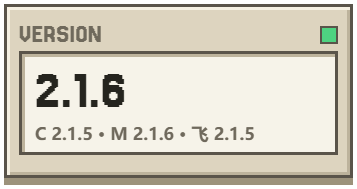
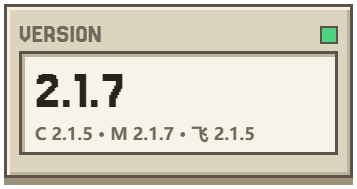
build(发行): Magpie 2.1.7（NearToken 让出供应商 + 探针图钉图标）
只升 Magpie，Clash / 飞书 保持 2.1.5。catalog 回填 magpie 真实摘要（33,307,148 B / sha256 81d9308d…），README 版本卡与发行说明对齐 2.1.7，2.1.6 那条「图标已接线」补一条更正。

Changed region(s): [[0.2773, 0.3704, 0.3697, 0.582], [0.4622, 0.6614, 0.493, 0.7407]]

diff --git a/README.md b/README.md
@@ -12,18 +12,18 @@
 </picture>
 
 <p>
-  <a href="https://github.com/Fish-under-sea/FISH-DOCK-Plugins/releases/tag/v2.1.6"><picture><source media="(prefers-color-scheme: dark)" srcset="assets/readme/config-stat-version-zh-dark.png"><img src="assets/readme/config-stat-version-zh-light.png" alt="VERSION：三插件 2.1.4" width="23%"></picture></a>
+  <a href="https://github.com/Fish-under-sea/FISH-DOCK-Plugins/releases/tag/v2.1.7"><picture><source media="(prefers-color-scheme: dark)" srcset="assets/readme/config-stat-version-zh-dark.png"><img src="assets/readme/config-stat-version-zh-light.png" alt="VERSION：Clash 2.1.5 · Magpie 2.1.7 · 飞书 2.1.5" width="23%"></picture></a>
   <a href="#plugins"><picture><source media="(prefers-color-scheme: dark)" srcset="assets/readme/config-stat-desktop-zh-dark.png"><img src="assets/readme/config-stat-desktop-zh-light.png" alt="PLUGINS：三个独立插件" width="23%"></picture></a>
   <a href="#packages"><picture><source media="(prefers-color-scheme: dark)" srcset="assets/readme/config-stat-mail-zh-dark.png"><img src="assets/readme/config-stat-mail-zh-light.png" alt="PACKAGES：三个 npm 单包" width="23%"></picture></a>
   <a href="https://github.com/Fish-under-sea/FISH-Dock"><picture><source media="(prefers-color-scheme: dark)" srcset="assets/readme/config-stat-channels-zh-dark.png"><img src="assets/readme/config-stat-channels-zh-light.png" alt="HOST API：1，兼容 FISH Dock 2.0.0+" width="23%"></picture></a>
 </p>
 
-<p><img src="https://img.shields.io/badge/Node.js-24.14%2B-8fd6a0?style=flat-square&amp;logo=nodedotjs&amp;logoColor=white&amp;labelColor=5a544a" alt="Node.js 24.14+"> <img src="https://img.shields.io/badge/Adapter%20License-MIT-8fd6a0?style=flat-square&amp;labelColor=5a544a" alt="插件适配代码许可 MIT"> <img src="https://img.shields.io/badge/mihomo-GPL--3.0-f08a5d?style=flat-square&amp;labelColor=5a544a" alt="随包 mihomo 许可 GPL-3.0"> <img src="https://img.shields.io/badge/Plugins-2.1.6-8fd6a0?style=flat-square&amp;labelColor=5a544a" alt="三插件 2.1.4"></p>
+<p><img src="https://img.shields.io/badge/Node.js-24.14%2B-8fd6a0?style=flat-square&amp;logo=nodedotjs&amp;logoColor=white&amp;labelColor=5a544a" alt="Node.js 24.14+"> <img src="https://img.shields.io/badge/Adapter%20License-MIT-8fd6a0?style=flat-square&amp;labelColor=5a544a" alt="插件适配代码许可 MIT"> <img src="https://img.shields.io/badge/mihomo-GPL--3.0-f08a5d?style=flat-square&amp;labelColor=5a544a" alt="随包 mihomo 许可 GPL-3.0"> <img src="https://img.shields.io/badge/Plugins-2.1.7-8fd6a0?style=flat-square&amp;labelColor=5a544a" alt="Clash 2.1.5 · Magpie 2.1.7 · 飞书 2.1.5"></p>
 <p><strong>FISH Plugins &amp; Configuration · 插件配置仓</strong><br>官方插件、配置说明与发行入口；按需安装，独立运行。</p>
 
 <p>
   <a href="#get-started"><picture><source media="(prefers-color-scheme: dark)" srcset="assets/readme/key-download-zh-dark.png"><img src="assets/readme/key-download-zh-light.png" alt="下载 / Releases" height="40"></picture></a>
-  <a href="https://github.com/Fish-under-sea/FISH-DOCK-Plugins/releases/tag/v2.1.6"><picture><source media="(prefers-color-scheme: dark)" srcset="assets/readme/key-release-zh-dark.png"><img src="assets/readme/key-release-zh-light.png" alt="更新记录" height="40"></picture></a>
+  <a href="https://github.com/Fish-under-sea/FISH-DOCK-Plugins/releases/tag/v2.1.7"><picture><source media="(prefers-color-scheme: dark)" srcset="assets/readme/key-release-zh-dark.png"><img src="assets/readme/key-release-zh-light.png" alt="更新记录" height="40"></picture></a>
   <a href="https://github.com/Fish-under-sea/FISH-DOCK-Plugins/issues"><picture><source media="(prefers-color-scheme: dark)" srcset="assets/readme/key-issues-zh-dark.png"><img src="assets/readme/key-issues-zh-light.png" alt="反馈 / Issues" height="40"></picture></a>
 </p>
 
@@ -35,23 +35,33 @@
 
 每个插件独立保存配置与凭据，按需启动，不共享业务密钥。插件仓只发布插件资源，桌面安装包请前往 [FISH-Dock](https://github.com/Fish-under-sea/FISH-Dock)。
 
-本版**只升 Magpie：2.1.5 → 2.1.6**（Clash / 飞书 保持 2.1.5）。Magpie 这版三件事：接入 NearToken 页面插件的八条宿主调用（`neartoken:*`）；插件页超链接改由宿主用系统浏览器打开（沙箱帧里 `<a href>` 打不开）；内置「中转站探针」图标与界面重做，并补操作教程。要求 **FISH Dock ≥ 2.0.0**。完整改动见 [2.1.6 发行说明](docs/releases/2.1.4.md)。
+本版**只升 Magpie：2.1.6 → 2.1.7**（Clash / 飞书 保持 2.1.5）。这版做两件事：NearToken 的 provider 插件从 0.1.7 起自带模型表、图标与余额，宿主侧那条 key+URL 供应商**让出去**（[#22](https://github.com/Fish-under-sea/FISH-Dock-Plugins/issues/22)）；内置「中转站探针」补上 📌 图钉图标，深浅两套配色。要求 **FISH Dock ≥ 2.0.0**。完整改动见 [2.1.7 发行说明](docs/releases/2.1.7.md)。
 
-**2.1.6 改了什么（仅 Magpie）**
+**2.1.7 改了什么（仅 Magpie）**
 
-- **Clash：七项 UX 修复 + 订阅运行中热切换**：胶囊按钮不再被长文案压成竖排圆块（禁用原因拆成按钮下方小字）；详情卡「复制」按钮移除、左右两卡行高基线对齐；**点订阅卡 = 高亮 + 切换启用**（同时只允许一条启用，卡内开关与卡片高亮双向联动）；内核运行中切换订阅**热重载配置，不停内核**（失败自动回滚启用集与配置文件）；下拉弹层内滚轮不再误关闭；两个下拉箭头换成内联 SVG 垂直居中；读数行数值不再被裁。注意一条行为变化：**没有缓存的订阅现在直接拒绝启用**（此前是「启用成功、下次启动内核才失败」），避免内核带着空 provider 起来。
-- **Clash 两个下拉触发器首列对齐（2.1.5 补发）**：`justify-content:flex-start` + 图标盒恒在 + 右侧那组贴右（有延迟由延迟吃 `auto`，没有则由箭头吃），两个触发器的文字相对左边缘偏移实测 37px = 37px；顺带修掉「无 emoji 时首列少 24px」。
-- **以下为 2.1.4 首次引入、2.1.5 一并包含**：
-- **飞书页面按 2.1.4 设计语言重构**：单栏与双栏两套布局分别设计（不是一套挤成两列，720px 以下自动降单栏）；token 化自持深浅主题；布局切换器、卡片、按钮语义、状态 banner 与无障碍全部对齐 Clash 同款刻度。
-- **Magpie：exe 基线仍 `v0.1.2732`，补丁推进到 `+fish.10`**，随包 exe 与 2.1.3 **不再逐字节相同**（74,019,840 → 79,512,064 B）。上游带来的用户可感知变化见[发行说明](docs/releases/2.1.4.md)；我们自己的改动：**新增内置 Meoo 秒悟（建站 Agent）**、**OpenCode Zen Free 移出预装**（已装用户不受影响，美化素材保留）、**#18 五项落地**——讯飞不再显示假 400（读不到真实积分就「未告知」）、签到数据带「截至时间/来源」、不支持采集的显示标记、首启「正在准备 N 个供应商插件」可用、首启图标不再抖动；`preinstall-state.json` 首启落盘接上线。
-- **包与版本**：Clash 与飞书 2.1.5、**Magpie 2.1.6**；`magpie.exe` 版本资源 `0.1.2732.10`（ProductName `magpie fish`）；`page-checkin` 保持 0.2.6，`page-relay-probe` 升到 0.1.1。
+- **NearToken 不再被宿主那条供应商盖住（#22）**：`@fish-under-sea/magpie-neartoken` 0.1.7 起自己就是 provider 插件（设备授权、按「分组 × 模型」展开的模型表、倍率、生图/视频标记、图标、余额都由它给），宿主侧那条 key+URL 供应商撞在同一个 id 上，于是模型表是旧的、卡片是灰立方体、「重新获取模型」还去问站点 `/v1/models`（那个端点按令牌分组过滤，很多账号回空）。本版插件在场时**宿主让出供应商**：不再 `provider.Save`、不再写模型表，页面那八条 `neartoken:*` 改从插件凭据里读令牌；老用户升级时把旧钥匙搬进插件 auth 再删掉那条（搬不动就留着，钥匙不丢）；断开时撤令牌 + 删插件凭据 + 删宿主侧那条，一样不留；插件不在场时保持老做法。
+- **中转站探针的图标**：2.1.6 换了矢量图标，但 `magpie.page.icon` 没落到 `package.json` 上，侧边栏里还是 magpie 的兜底灰方块。本版换成**图钉（📌）**描边图标，`magpie.page.icon` 与 `magpie.icon` 同指 `page/icon.svg`；深浅两套颜色写在 SVG 里（`@media (prefers-color-scheme: dark)` 切 `#111111` / `#F2F2F7`），因为 `<img>` 里 `currentColor` 没有父级可继承、恒等于黑。包里那张 109 KB 灰色位图已删。
+- **包与版本**：Clash 与飞书 2.1.5、**Magpie 2.1.7**；`magpie.exe` 版本资源 `0.1.2732.11`（ProductName `magpie fish`）；`page-checkin` 保持 0.2.6，`page-relay-probe` 升到 0.1.2。
 
 > ℹ **2.1.3 的已知限制已在 2.1.4 修复**：讯飞今日积分显示 400 的问题（读取侧补偿）随 #18 的 B1 移除，读不到真实积分时显示「未告知」。
 
 <details>
-<summary><b>2.1.2 / 2.1.0 改了什么</b></summary>
+<summary><b>2.1.6 / 2.1.5 / 2.1.2 / 2.1.0 改了什么</b></summary>
 
 <br>
+
+**2.1.6 改了什么（仅 Magpie）**
+
+- 接入 NearToken 页面插件的八条宿主调用（`neartoken:*`）。
+- 插件页超链接改由宿主用系统浏览器打开（沙箱帧里 `<a href>` 打不开）。
+- 内置「中转站探针」界面重做并补操作教程（`page-relay-probe` 0.1.1）；exe 补丁推进到 `+fish.10`。
+
+**2.1.5 改了什么**
+
+- **Clash：七项 UX 修复 + 订阅运行中热切换**：胶囊按钮不再被长文案压成竖排圆块（禁用原因拆成按钮下方小字）；详情卡「复制」按钮移除、左右两卡行高基线对齐；**点订阅卡 = 高亮 + 切换启用**（同时只允许一条启用，卡内开关与卡片高亮双向联动）；内核运行中切换订阅**热重载配置，不停内核**（失败自动回滚启用集与配置文件）；下拉弹层内滚轮不再误关闭；两个下拉箭头换成内联 SVG 垂直居中；读数行数值不再被裁。注意一条行为变化：**没有缓存的订阅现在直接拒绝启用**（此前是「启用成功、下次启动内核才失败」），避免内核带着空 provider 起来。
+- **Clash 两个下拉触发器首列对齐（2.1.5 补发）**：`justify-content:flex-start` + 图标盒恒在 + 右侧那组贴右（有延迟由延迟吃 `auto`，没有则由箭头吃），两个触发器的文字相对左边缘偏移实测 37px = 37px；顺带修掉「无 emoji 时首列少 24px」。
+- **飞书页面按 2.1.4 设计语言重构**：单栏与双栏两套布局分别设计（不是一套挤成两列，720px 以下自动降单栏）；token 化自持深浅主题；布局切换器、卡片、按钮语义、状态 banner 与无障碍全部对齐 Clash 同款刻度。
+- **Magpie 2.1.4 起的改动**：exe 基线 `v0.1.2732`，新增内置 Meoo 秒悟（建站 Agent）、OpenCode Zen Free 移出预装（已装用户不受影响，美化素材保留）、#18 五项落地——讯飞不再显示假 400（读不到真实积分就「未告知」）、签到数据带「截至时间/来源」、不支持采集的显示标记、首启「正在准备 N 个供应商插件」可用、首启图标不再抖动；`preinstall-state.json` 首启落盘接上线。
 
 **2.1.2 改了什么**
 
@@ -142,7 +152,7 @@
 | --- | --- | --- |
 | 飞书 2.1.5 | [`feishu.fish-plugin`](https://github.com/Fish-under-sea/FISH-DOCK-Plugins/releases/download/v2.1.5/feishu.fish-plugin) | [`@fish-under-sea/fish-dock-plugin-feishu`](https://www.npmjs.com/package/@fish-under-sea/fish-dock-plugin-feishu) |
 | Clash 2.1.5 | [`clash.fish-plugin`](https://github.com/Fish-under-sea/FISH-DOCK-Plugins/releases/download/v2.1.5/clash.fish-plugin) | [`@fish-under-sea/fish-dock-plugin-clash`](https://www.npmjs.com/package/@fish-under-sea/fish-dock-plugin-clash/v/2.1.4) |
-| Magpie 2.1.6 | [`magpie.fish-plugin`](https://github.com/Fish-under-sea/FISH-DOCK-Plugins/releases/download/v2.1.6/magpie.fish-plugin) | [`@fish-under-sea/fish-dock-plugin-magpie`](https://www.npmjs.com/package/@fish-under-sea/fish-dock-plugin-magpie/v/2.1.4) |
+| Magpie 2.1.7 | [`magpie.fish-plugin`](https://github.com/Fish-under-sea/FISH-DOCK-Plugins/releases/download/v2.1.7/magpie.fish-plugin) | [`@fish-under-sea/fish-dock-plugin-magpie`](https://www.npmjs.com/package/@fish-under-sea/fish-dock-plugin-magpie/v/2.1.4) |
 
 <h2 id="packages"><picture><source media="(prefers-color-scheme: dark)" srcset="assets/readme/section-packages-dark.png"><img src="assets/readme/section-packages-light.png" alt="PACKAGES · npm 单包" width="100%"></picture></h2>
 

diff --git a/docs/releases/2.1.7.md b/docs/releases/2.1.7.md
@@ -1,0 +1,64 @@
+# Magpie 2.1.7
+
+> 定稿：2026-11-04。**本版只升 Magpie**（2.1.6 → 2.1.7），Clash 与飞书保持 2.1.5，OFM 保持 2.0.1。
+> 对应 issue：[#22 NearToken 0.1.7 起自带 provider 插件，宿主侧不要再建 key+URL 供应商](https://github.com/Fish-under-sea/FISH-Dock-Plugins/issues/22)；另收 2.1.6 遗留的「中转站探针图标」。
+
+## 一、版本口径
+
+| 插件 | 起始 | 目标 | 说明 |
+| --- | --- | --- | --- |
+| `fish.magpie` | 2.1.6 | **2.1.7** | 补丁 `magpie-v0.1.2732+fish.11.patch`，重编 exe |
+| `fish.clash` | 2.1.5 | 2.1.5（保持） | 本版无改动 |
+| `fish.feishu` | 2.1.5 | 2.1.5（保持） | 本版无改动 |
+
[2 lines of base64/hex data omitted]
+
+## 二、改动
+
+### 1）NearToken：宿主让出供应商（#22）
+
+**根因**：`@fish-under-sea/magpie-neartoken` 从 0.1.7 起包里多了 `index.mjs`，它同时是 magpie 的 provider 插件（`auth` 设备授权 / `provider.models` / `auth.usage` / `auth.icon`），provider id 仍是 `neartoken`；而 2.1.6 补进来的 `internal/neartoken` 还按老路子，登录成功后 `provider.Save` 一条 key+URL 供应商，两边撞在同一个 id 上。
+
+撞的后果是宿主侧那条盖住了插件那条：
+
+| 现象 | 原因 |
+| --- | --- |
+| 「重新获取模型」报 `no model list: https://neartoken.cc/v1/models: no models listed…` | 宿主侧那条没有 `ModelsURL`，magpie 去问站点 `/v1/models`；该端点按令牌分组过滤，很多账号回空 |
+| 供应商卡是灰色立方体 | 宿主侧没写 `Icon`（`Icon` 必须是 `icons/` 里的 `file:<name>`，不是外链） |
+| 模型只有七十来条、生图/视频模型不见了 | 宿主侧只写了聊天模型，没标 `Draws`/`Films` |
+| 模型名后面没有分组与倍率 | magpie 的模型表一行一个模型，宿主侧没把「分组 × 模型」折进去 |
+
+**本版做法**（issue 里的 A「让出供应商」）：
+
+- `internal/neartoken` 新增 `handoff.go`：插件在场（`plugin.Listed()` 里有 id 为 `neartoken` 的 provider）时，宿主**不再** `provider.Save` 一条 key+URL 供应商、也不再 `catalog.SaveLive` 写模型表；
+- 从页面连上的令牌交给插件自己的 auth（`plugin.Import`，形状照插件 `auth.methods` 回的那份：`type/access/refresh`），供应商页的模型行、分组倍率、图标、余额全部改由插件给；
+- 老用户升级：`providers.json` 里那条宿主建的供应商会把钥匙先搬进插件 auth，搬成功才删掉那一条（搬不动就留在原地，钥匙不丢）；页面在那之前仍从老位置读，不会闪成「未连接」；
+- 页面那八条 `neartoken:*` 改从插件凭据里读令牌（`plugin.Auths`），不再读 `providers.json`；
+- 断开连接：站点撤令牌 + 删插件凭据（`plugin.SignOut`）+ 删宿主侧那条（含它写下的模型表），一样不留；
+- 插件不在场（0.1.5 及更早的页面插件、或只装了页面那半边）时保持原来的做法：一条 key+URL 供应商，页面照旧能用。
+
+`internal/plugin/page.go` 的 `PageCalls` 八条 `neartoken:*`、站点端点、错误码 `DSH_TOKEN_REQUIRED`、确认页路由都没动。
+
+### 2）中转站探针：图钉图标
+
+2.1.6 把探针的图标换成了描边矢量，但 `magpie.page.icon` 那一条没落到 `package.json` 上——侧边栏里「中转站探针」还是 magpie 兜底的那个灰方块。本版：
+
+- 图标换成**图钉（📌）**：24×24、`stroke-width: 2` 的描边，与自动签到的日历同款；
+- **深浅两套颜色写在文件里**：侧边栏与插件列表都是 `<img>` 加载，`currentColor` 在那里没有父级可继承、恒等于黑，所以在 SVG 里用 `@media (prefers-color-scheme: dark)` 切 `#111111` / `#F2F2F7`（窗口本来就跟着系统配色走，服务端不必猜主题）；
+- `magpie.page.icon`（侧边栏，走 magpie 的页面图路由）与 `magpie.icon`（包级，走 `LocalIcon` 的 `file:` 兜底）都指向同一个 `page/icon.svg`；
+- 删掉包里那张 109 KB 的灰色位图 `page/icon.png`。
+
+`page-relay-probe` 因此升到 0.1.2。
+
+## 三、验证
+
+- 补丁：对 pristine `v0.1.2732` `git apply --check` 干净，`--binary` 生成；
+- Go 侧：`internal/neartoken` 单测全绿，新增 5 条盯住「插件在场时钥匙归插件」「宿主侧那条会被让出」「插件不在场时保持老做法」「断开两处都不留」；
+- 页面侧：`page-relay-probe` 单测与 `node --check` 通过；
+- 环境噪声：本机 `internal/gui` / `internal/plugin` 的部分用例依赖符号链接权限与命名管道（沙箱禁），与本次改动无关，逐条记录在案。
+
+## 四、未验证
+
+- **没有真实 NearToken 站点验收**（需要站点账号）：插件接管后的模型行、图标、余额、生图/视频分类，都是代码层与单测层的结论；
+- 图钉图标没有在真实 Dock 窗口里核过一次深浅两色（本机只能核 SVG 本身与媒体查询写法）。

diff --git a/docs/maintainers/README.md b/docs/maintainers/README.md
@@ -1,8 +1,8 @@
 # 插件维护者指南
 
-2.0.0 把四个官方插件一起升到大版本：飞书、Clash、Magpie、OFM 全部 2.0.0，配套 FISH Dock 2.0.0+。作者改为数组、维护者字段整体去掉，OFM 带暂停维护标注。Magpie 随包的原生服务早已不是官方版：2.0.1 起是**源码自编译**（基线上游 tag 加我们自己的补丁，当前 `v0.1.2732+fish.9`，2.1.4 起基线随上游换新），原因与补丁清单见 [自编译说明](../../plugins/magpie/tools/README.md)。
+2.0.0 把四个官方插件一起升到大版本：飞书、Clash、Magpie、OFM 全部 2.0.0，配套 FISH Dock 2.0.0+。作者改为数组、维护者字段整体去掉，OFM 带暂停维护标注。Magpie 随包的原生服务早已不是官方版：2.0.1 起是**源码自编译**（基线上游 tag 加我们自己的补丁，当前 `v0.1.2732+fish.11`，2.1.4 起基线随上游换新），原因与补丁清单见 [自编译说明](../../plugins/magpie/tools/README.md)。
 
-**当前版本**：飞书 **2.1.5**、Clash **2.1.5**、Magpie **2.1.6**（exe `v0.1.2732+fish.10`）、OFM **2.0.1**（暂停维护）。发行走 `v2.1.x` 之类的总 tag，一个 release 里放当次要发的包——不必四个一起发。发行工具生成标准 ZIP 插件包、逐资源 SHA-256、商店目录及总摘要；桌面安装器与业务插件分别在各自仓库发布。
+**当前版本**：飞书 **2.1.5**、Clash **2.1.5**、Magpie **2.1.7**（exe `v0.1.2732+fish.11`）、OFM **2.0.1**（暂停维护）。发行走 `v2.1.x` 之类的总 tag，一个 release 里放当次要发的包——不必四个一起发。发行工具生成标准 ZIP 插件包、逐资源 SHA-256、商店目录及总摘要；桌面安装器与业务插件分别在各自仓库发布。
 
 ## 身份表
 
@@ -29,7 +29,7 @@
 
 | 资源 | 当前开发验证来源 | 处理方式 |
 | --- | --- | --- |
-| Magpie | `yetone/magpie`，0.1.2336 / commit `847f0c4`，按 [自编译说明](../../plugins/magpie/tools/README.md) 加 `patches/magpie-v0.1.2336+fish.8.patch` 自行构建（版本标识 `v0.1.2336+fish.8` / FileVersion `0.1.2336.8`） | 独立进程；逐文件摘要记录于插件清单 |
+| Magpie | `yetone/magpie`，`v0.1.2732`，按 [自编译说明](../../plugins/magpie/tools/README.md) 加 `patches/magpie-v0.1.2732+fish.11.patch` 自行构建（版本标识 `v0.1.2732+fish.11` / FileVersion `0.1.2732.11`） | 独立进程；逐文件摘要记录于插件清单 |
 | mihomo | v1.19.15，`mihomo-windows-amd64-compatible-v1.19.15.zip` | 校验下载后暂存可执行文件，首次按需启动 |
 | OFM | 本机明确指定的 `dsh-our-free-model` 源码目录 | 按所需运行文件暂存，保留自身管理页及渠道逻辑 |
 | Node SDK | 同版 Dock 仓的 `sdk/node/plugin.mjs` | 复制到各插件，与宿主 API 1 联调 |

diff --git a/docs/releases/2.1.6.md b/docs/releases/2.1.6.md
@@ -36,6 +36,8 @@
 ### 3）中转站探针：图标与界面重做
 
 - **图标**：原来是 109 KB 的灰色位图，改成与签到页同款的描边矢量图标（`stroke="currentColor"`，暗色下即白色），`magpie.icon` 与 `page.icon` 都指向 `page/icon.svg`；
+
+> 更正（2.1.7）：这一条在 2.1.6 只把 `page/icon.svg` 落进了包，`package.json` 的那两处没接上，侧边栏还是兜底灰方块；接线与图钉图标见 [2.1.7](2.1.7.md)。
 - **布局收紧**：卡片内边距 14→12、卡片间距 14→10、标题 20→18、表格行高压缩，首屏不再大片留白；
 - **操作教程**：底部折叠块「操作教程（点击查看）」，七步走完从填地址到读结论，附 Anthropic / OpenAI 官方文档链接（走 `magpie:open-external`）；
 - **探针表**：表头与行距统一，状态列等宽字体，说明列可换行。
